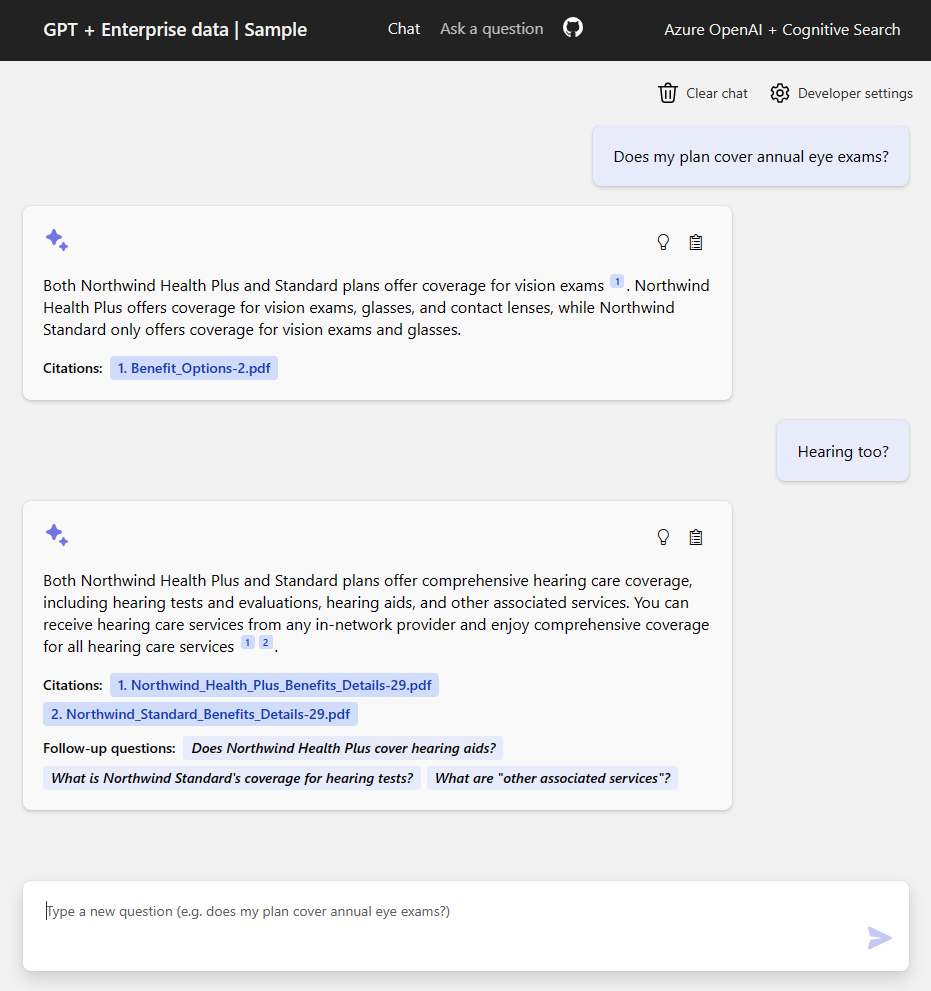
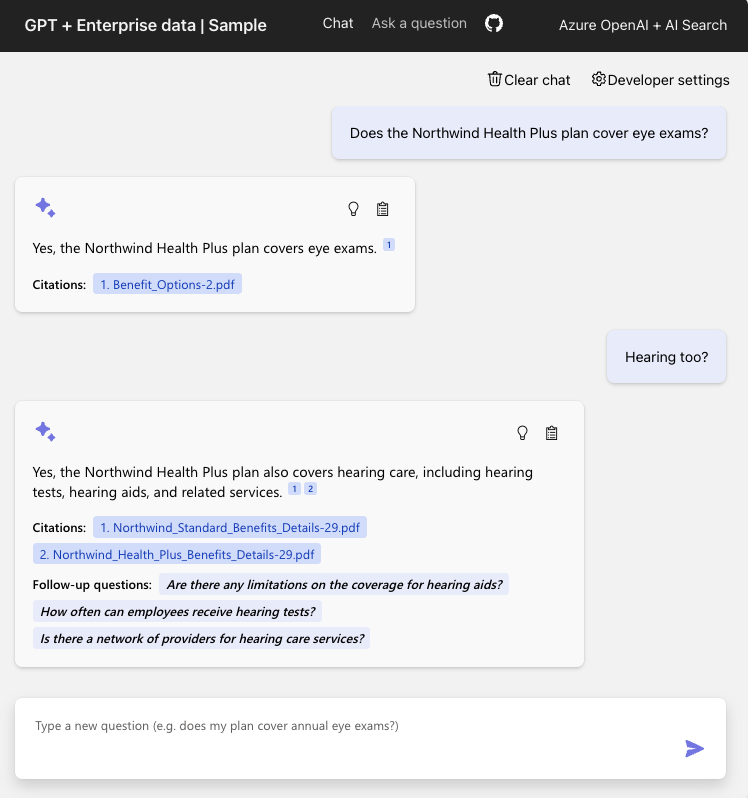
[Docs] Add to readme: links, getting help, load balancing (#1019)
* Readme improvements

* Update screenshot and search sku message

* Dont use discussions

diff --git a/README.md b/README.md
@@ -46,9 +46,9 @@ urlFragment: azure-search-openai-demo
 - [Customizing the UI and data](#customizing-the-ui-and-data)
 - [Productionizing](#productionizing)
 - [Resources](#resources)
-  - [Note](#note)
   - [FAQ](#faq)
   - [Troubleshooting](#troubleshooting)
+  - [Getting help](#getting-help)
 
 [![Open in GitHub Codespaces](https://img.shields.io/static/v1?style=for-the-badge&label=GitHub+Codespaces&message=Open&color=brightgreen&logo=github)](https://github.com/codespaces/new?hide_repo_select=true&ref=main&repo=599293758&machine=standardLinux32gb&devcontainer_path=.devcontainer%2Fdevcontainer.json&location=WestUs2)
 [![Open in Dev Containers](https://img.shields.io/static/v1?style=for-the-badge&label=Dev%20Containers&message=Open&color=blue&logo=visualstudiocode)](https://vscode.dev/redirect?url=vscode://ms-vscode-remote.remote-containers/cloneInVolume?url=https://github.com/azure-samples/azure-search-openai-demo)
@@ -68,6 +68,8 @@ The repo includes sample data so it's ready to try end to end. In this sample ap
 * Performance tracing and monitoring with Application Insights
 
 ![Chat screen](docs/chatscreen.png)
+
+[📺 Watch a video overview of the app.](https://youtu.be/3acB0OWmLvM)
 
 ## Azure account requirements
 
@@ -195,7 +197,7 @@ When you run `azd up` after and are prompted to select a value for `openAiResour
 1. Run `azd env set AZURE_SEARCH_SERVICE_RESOURCE_GROUP {Name of existing resource group with ACS service}`
 1. If that resource group is in a different location than the one you'll pick for the `azd up` step,
   then run `azd env set AZURE_SEARCH_SERVICE_LOCATION {Location of existing service}`
-1. If the search service's SKU is not standard, then run `azd env set AZURE_SEARCH_SERVICE_SKU {Name of SKU}`. The free tier won't work as it doesn't support managed identity. ([See other possible values](https://learn.microsoft.com/azure/templates/microsoft.search/searchservices?pivots=deployment-language-bicep#sku))
+1. If the search service's SKU is not standard, then run `azd env set AZURE_SEARCH_SERVICE_SKU {Name of SKU}`. The free tier won't work as it doesn't support managed identity. If your existing search service is using the free tier, you will need to deploy a new service since [search SKUs cannot be changed](https://learn.microsoft.com/azure/search/search-sku-tier#tier-upgrade-or-downgrade). ([See other possible SKU values](https://learn.microsoft.com/azure/templates/microsoft.search/searchservices?pivots=deployment-language-bicep#sku))
 1. If you have an existing index that is set up with all the expected fields, then run `azd env set AZURE_SEARCH_INDEX {Name of existing index}`. Otherwise, the `azd up` command will create a new index.
 
 You can also customize the search service (new or existing) for non-English searches:
@@ -310,10 +312,12 @@ to production. Read through our [productionizing guide](docs/productionizing.md)
 
 ## Resources
 
-* [Revolutionize your Enterprise Data with ChatGPT: Next-gen Apps w/ Azure OpenAI and AI Search](https://aka.ms/entgptsearchblog)
-* [Azure AI Search](https://learn.microsoft.com/azure/search/search-what-is-azure-search)
-* [Azure OpenAI Service](https://learn.microsoft.com/azure/cognitive-services/openai/overview)
-* [Comparing Azure OpenAI and OpenAI](https://learn.microsoft.com/azure/cognitive-services/openai/overview#comparing-azure-openai-and-openai/)
+* [📖 Revolutionize your Enterprise Data with ChatGPT: Next-gen Apps w/ Azure OpenAI and AI Search](https://aka.ms/entgptsearchblog)
+* [📖 Azure AI Search](https://learn.microsoft.com/azure/search/search-what-is-azure-search)
+* [📖 Azure OpenAI Service](https://learn.microsoft.com/azure/cognitive-services/openai/overview)
+* [📖 Comparing Azure OpenAI and OpenAI](https://learn.microsoft.com/azure/cognitive-services/openai/overview#comparing-azure-openai-and-openai/)
+* [📖 Access Control in Generative AI applications with Azure Cognitive Search](https://techcommunity.microsoft.com/t5/ai-azure-ai-services-blog/access-control-in-generative-ai-applications-with-azure/ba-p/3956408)
+* [📺 Quickly build and deploy OpenAI apps on Azure, infused with your own data](https://www.youtube.com/watch?v=j8i-OM5kwiY)
 
 ## Clean up
 
@@ -325,9 +329,6 @@ To clean up all the resources created by this sample:
 
 The resource group and all the resources will be deleted.
 
-### Note
-
->Note: The PDF documents used in this demo contain information generated using a language model (Azure OpenAI Service). The information contained in these documents is only for demonstration purposes and does not reflect the opinions or beliefs of Microsoft. Microsoft makes no representations or warranties of any kind, express or implied, about the completeness, accuracy, reliability, suitability or availability with respect to the information contained in this document. All rights reserved to Microsoft.
 
 ### FAQ
 
@@ -430,3 +431,15 @@ Here are the most common failure scenarios and solutions:
 1. You see `CERTIFICATE_VERIFY_FAILED` when the `prepdocs.py` script runs. That's typically due to incorrect SSL certificates setup on your machine. Try the suggestions in this [StackOverflow answer](https://stackoverflow.com/questions/35569042/ssl-certificate-verify-failed-with-python3/43855394#43855394).
 
 1. After running `azd up` and visiting the website, you see a '404 Not Found' in the browser. Wait 10 minutes and try again, as it might be still starting up. Then try running `azd deploy` and wait again. If you still encounter errors with the deployed app, consult these [tips for debugging App Service app deployments](http://blog.pamelafox.org/2023/06/tips-for-debugging-flask-deployments-to.html) or watch [this video about downloading App Service logs](https://www.youtube.com/watch?v=f0-aYuvws54). Please file an issue if the logs don't help you resolve the error.
+
+### Getting help
+
+This is a sample built to demonstrate the capabilities of modern Generative AI apps and how they can be built in Azure.
+For help with deploying this sample, please post in [GitHub Issues](/issues). If you're a Microsoft employee, you can also post in [our Teams channel](https://aka.ms/azai-python-help).
+
+This repository is supported by the maintainers, _not_ by Microsoft Support,
+so please use the support mechanisms described above, and we will do our best to help you out.
+
+### Note
+
+>Note: The PDF documents used in this demo contain information generated using a language model (Azure OpenAI Service). The information contained in these documents is only for demonstration purposes and does not reflect the opinions or beliefs of Microsoft. Microsoft makes no representations or warranties of any kind, express or implied, about the completeness, accuracy, reliability, suitability or availability with respect to the information contained in this document. All rights reserved to Microsoft.

diff --git a/docs/productionizing.md b/docs/productionizing.md
@@ -1,4 +1,3 @@
-
 # Productionizing the Chat App
 
 This sample is designed to be a starting point for your own production application,
@@ -7,26 +6,43 @@ to production. Here are some things to consider:
 
 ## Azure resource configuration
 
-* **OpenAI Capacity**: The default TPM (tokens per minute) is set to 30K. That is equivalent
-  to approximately 30 conversations per minute (assuming 1K per user message/response).
-  You can increase the capacity by changing the `chatGptDeploymentCapacity` and `embeddingDeploymentCapacity`
-  parameters in `infra/main.bicep` to your account's maximum capacity.
-  You can also view the Quotas tab in [Azure OpenAI studio](https://oai.azure.com/)
-  to understand how much capacity you have.
-* **Azure Storage**: The default storage account uses the `Standard_LRS` SKU.
-  To improve your resiliency, we recommend using `Standard_ZRS` for production deployments,
-  which you can specify using the `sku` property under the `storage` module in `infra/main.bicep`.
-* **Azure AI Search**: The default search service uses the `Standard` SKU
-  with the free semantic search option, which gives you 1000 free queries a month.
-  Assuming your app will experience more than 1000 questions, you should either change `semanticSearch`
-  to "standard" or disable semantic search entirely in the `/app/backend/approaches` files.
-  If you see errors about search service capacity being exceeded, you may find it helpful to increase
-  the number of replicas by changing `replicaCount` in `infra/core/search/search-services.bicep`
-  or manually scaling it from the Azure Portal.
-* **Azure App Service**: The default app service plan uses the `Basic` SKU with 1 CPU core and 1.75 GB RAM.
-  We recommend using a Premium level SKU, starting with 1 CPU core.
-  You can use auto-scaling rules or scheduled scaling rules,
-  and scale up the maximum/minimum based on load.
+### OpenAI Capacity
+
+The default TPM (tokens per minute) is set to 30K. That is equivalent
+to approximately 30 conversations per minute (assuming 1K per user message/response).
+You can increase the capacity by changing the `chatGptDeploymentCapacity` and `embeddingDeploymentCapacity`
+parameters in `infra/main.bicep` to your account's maximum capacity.
+You can also view the Quotas tab in [Azure OpenAI studio](https://oai.azure.com/)
+to understand how much capacity you have.
+
+If the maximum TPM isn't enough for your expected load, you have a few options:
+
+* Use a backoff mechanism to retry the request. This is helpful if you're running into a short-term quota due to bursts of activity but aren't over long-term quota. The [tenacity](https://tenacity.readthedocs.io/en/latest/) library is a good option for this, and this [pull request](https://github.com/Azure-Samples/azure-search-openai-demo/pull/500) shows how to apply it to this app.
+
+* If you are consistently going over the TPM, then consider implementing a load balancer between OpenAI instances. Most developers implement that using Azure API Management following [this blog post](https://www.raffertyuy.com/raztype/azure-openai-load-balancing/) or [this repository](https://github.com/andredewes/apim-aoai-smart-loadbalancing). Another approach is to use [LiteLLM's load balancer](https://docs.litellm.ai/docs/providers/azure#azure-api-load-balancing) with Azure Cache for Redis.
+
+### Azure Storage
+
+The default storage account uses the `Standard_LRS` SKU.
+To improve your resiliency, we recommend using `Standard_ZRS` for production deployments,
+which you can specify using the `sku` property under the `storage` module in `infra/main.bicep`.
+
+### Azure AI Search
+
+The default search service uses the `Standard` SKU
+with the free semantic search option, which gives you 1000 free queries a month.
+Assuming your app will experience more than 1000 questions, you should either change `semanticSearch`
+to "standard" or disable semantic search entirely in the `/app/backend/approaches` files.
+If you see errors about search service capacity being exceeded, you may find it helpful to increase
+the number of replicas by changing `replicaCount` in `infra/core/search/search-services.bicep`
+or manually scaling it from the Azure Portal.
+
+### Azure App Service
+
+The default app service plan uses the `Basic` SKU with 1 CPU core and 1.75 GB RAM.
+We recommend using a Premium level SKU, starting with 1 CPU core.
+You can use auto-scaling rules or scheduled scaling rules,
+and scale up the maximum/minimum based on load.
 
 ## Additional security measures
 
